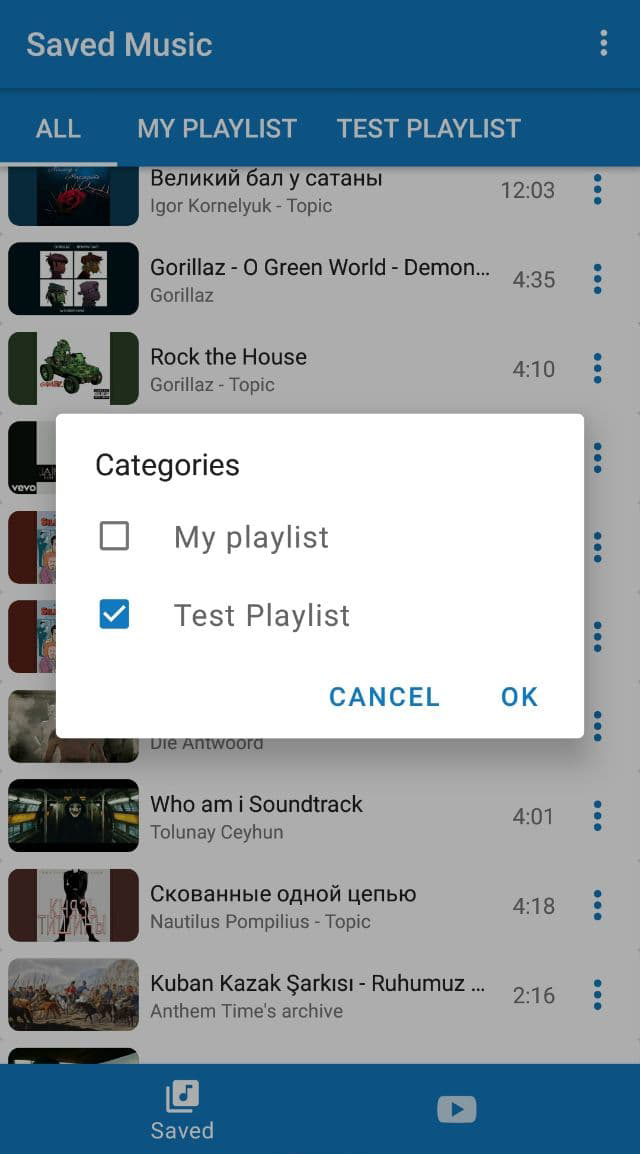
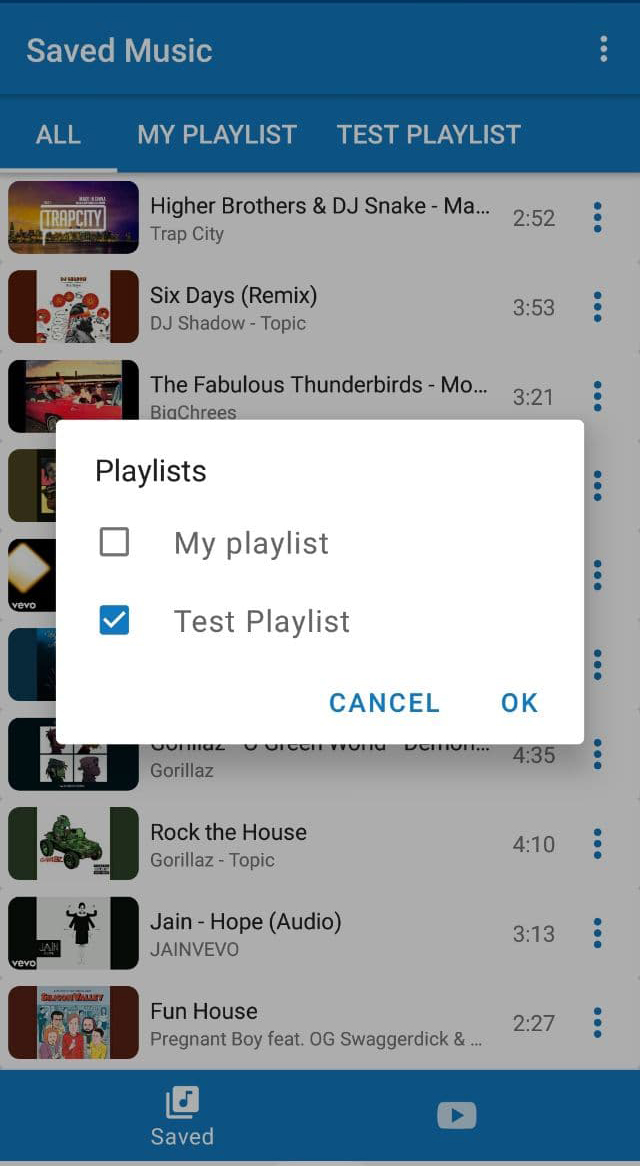
Renaming: Playlists instead of Categories

diff --git a/app/src/main/java/com/yurii/youtubemusic/CategoriesEditorActivity.kt b/app/src/main/java/com/yurii/youtubemusic/CategoriesEditorActivity.kt
@@ -24,8 +24,8 @@ class CategoriesEditorActivity : AppCompatActivity() {
 
     private val onDeleteClick = View.OnClickListener {
         ConfirmDeletionDialog.create(
-            titleId = R.string.dialog_confirm_deletion_category_title,
-            messageId = R.string.dialog_confirm_deletion_category_message,
+            titleId = R.string.dialog_confirm_deletion_playlist_title,
+            messageId = R.string.dialog_confirm_deletion_playlist_message,
             onConfirm = { removeCategory(it) }
         ).show(supportFragmentManager, "DeleteCategoryDialog")
     }
@@ -104,7 +104,7 @@ class CategoriesEditorActivity : AppCompatActivity() {
 
     private fun initActionBar() {
         supportActionBar?.let {
-            it.title = getString(R.string.label_edit_categories)
+            it.title = getString(R.string.label_edit_playlists)
             it.setHomeButtonEnabled(true)
             it.setDisplayHomeAsUpEnabled(true)
         }

diff --git a/app/src/main/java/com/yurii/youtubemusic/ui/AddEditCategoryDialog.kt b/app/src/main/java/com/yurii/youtubemusic/ui/AddEditCategoryDialog.kt
@@ -76,7 +76,7 @@ class AddEditCategoryDialog : DialogFragment() {
             val categoryName = getAndValidateCategoryName()
             callBack.invoke(categoryName.trim())
         } catch (error: EmptyCategoryNameException) {
-            edtCategoryName.error = requireContext().getString(R.string.label_category_name_cannot_be_empty)
+            edtCategoryName.error = requireContext().getString(R.string.label_playlist_name_cannot_be_empty)
         } catch (error: CategoryNameAlreadyExistsException) {
             edtCategoryName.error = requireContext().getString(R.string.label_category_already_exists)
         }

diff --git a/app/src/main/java/com/yurii/youtubemusic/ui/SelectCategoriesDialog.kt b/app/src/main/java/com/yurii/youtubemusic/ui/SelectCategoriesDialog.kt
@@ -19,7 +19,7 @@ class SelectCategoriesDialog private constructor(private val context: Context) {
         val categoriesNames = categories.map { it.name }
 
         MaterialAlertDialogBuilder(context).apply {
-            setTitle(R.string.label_categories)
+            setTitle(R.string.label_playlists)
             if (categories.isEmpty()) {
                 setView(R.layout.layout_no_categories)
             } else {
